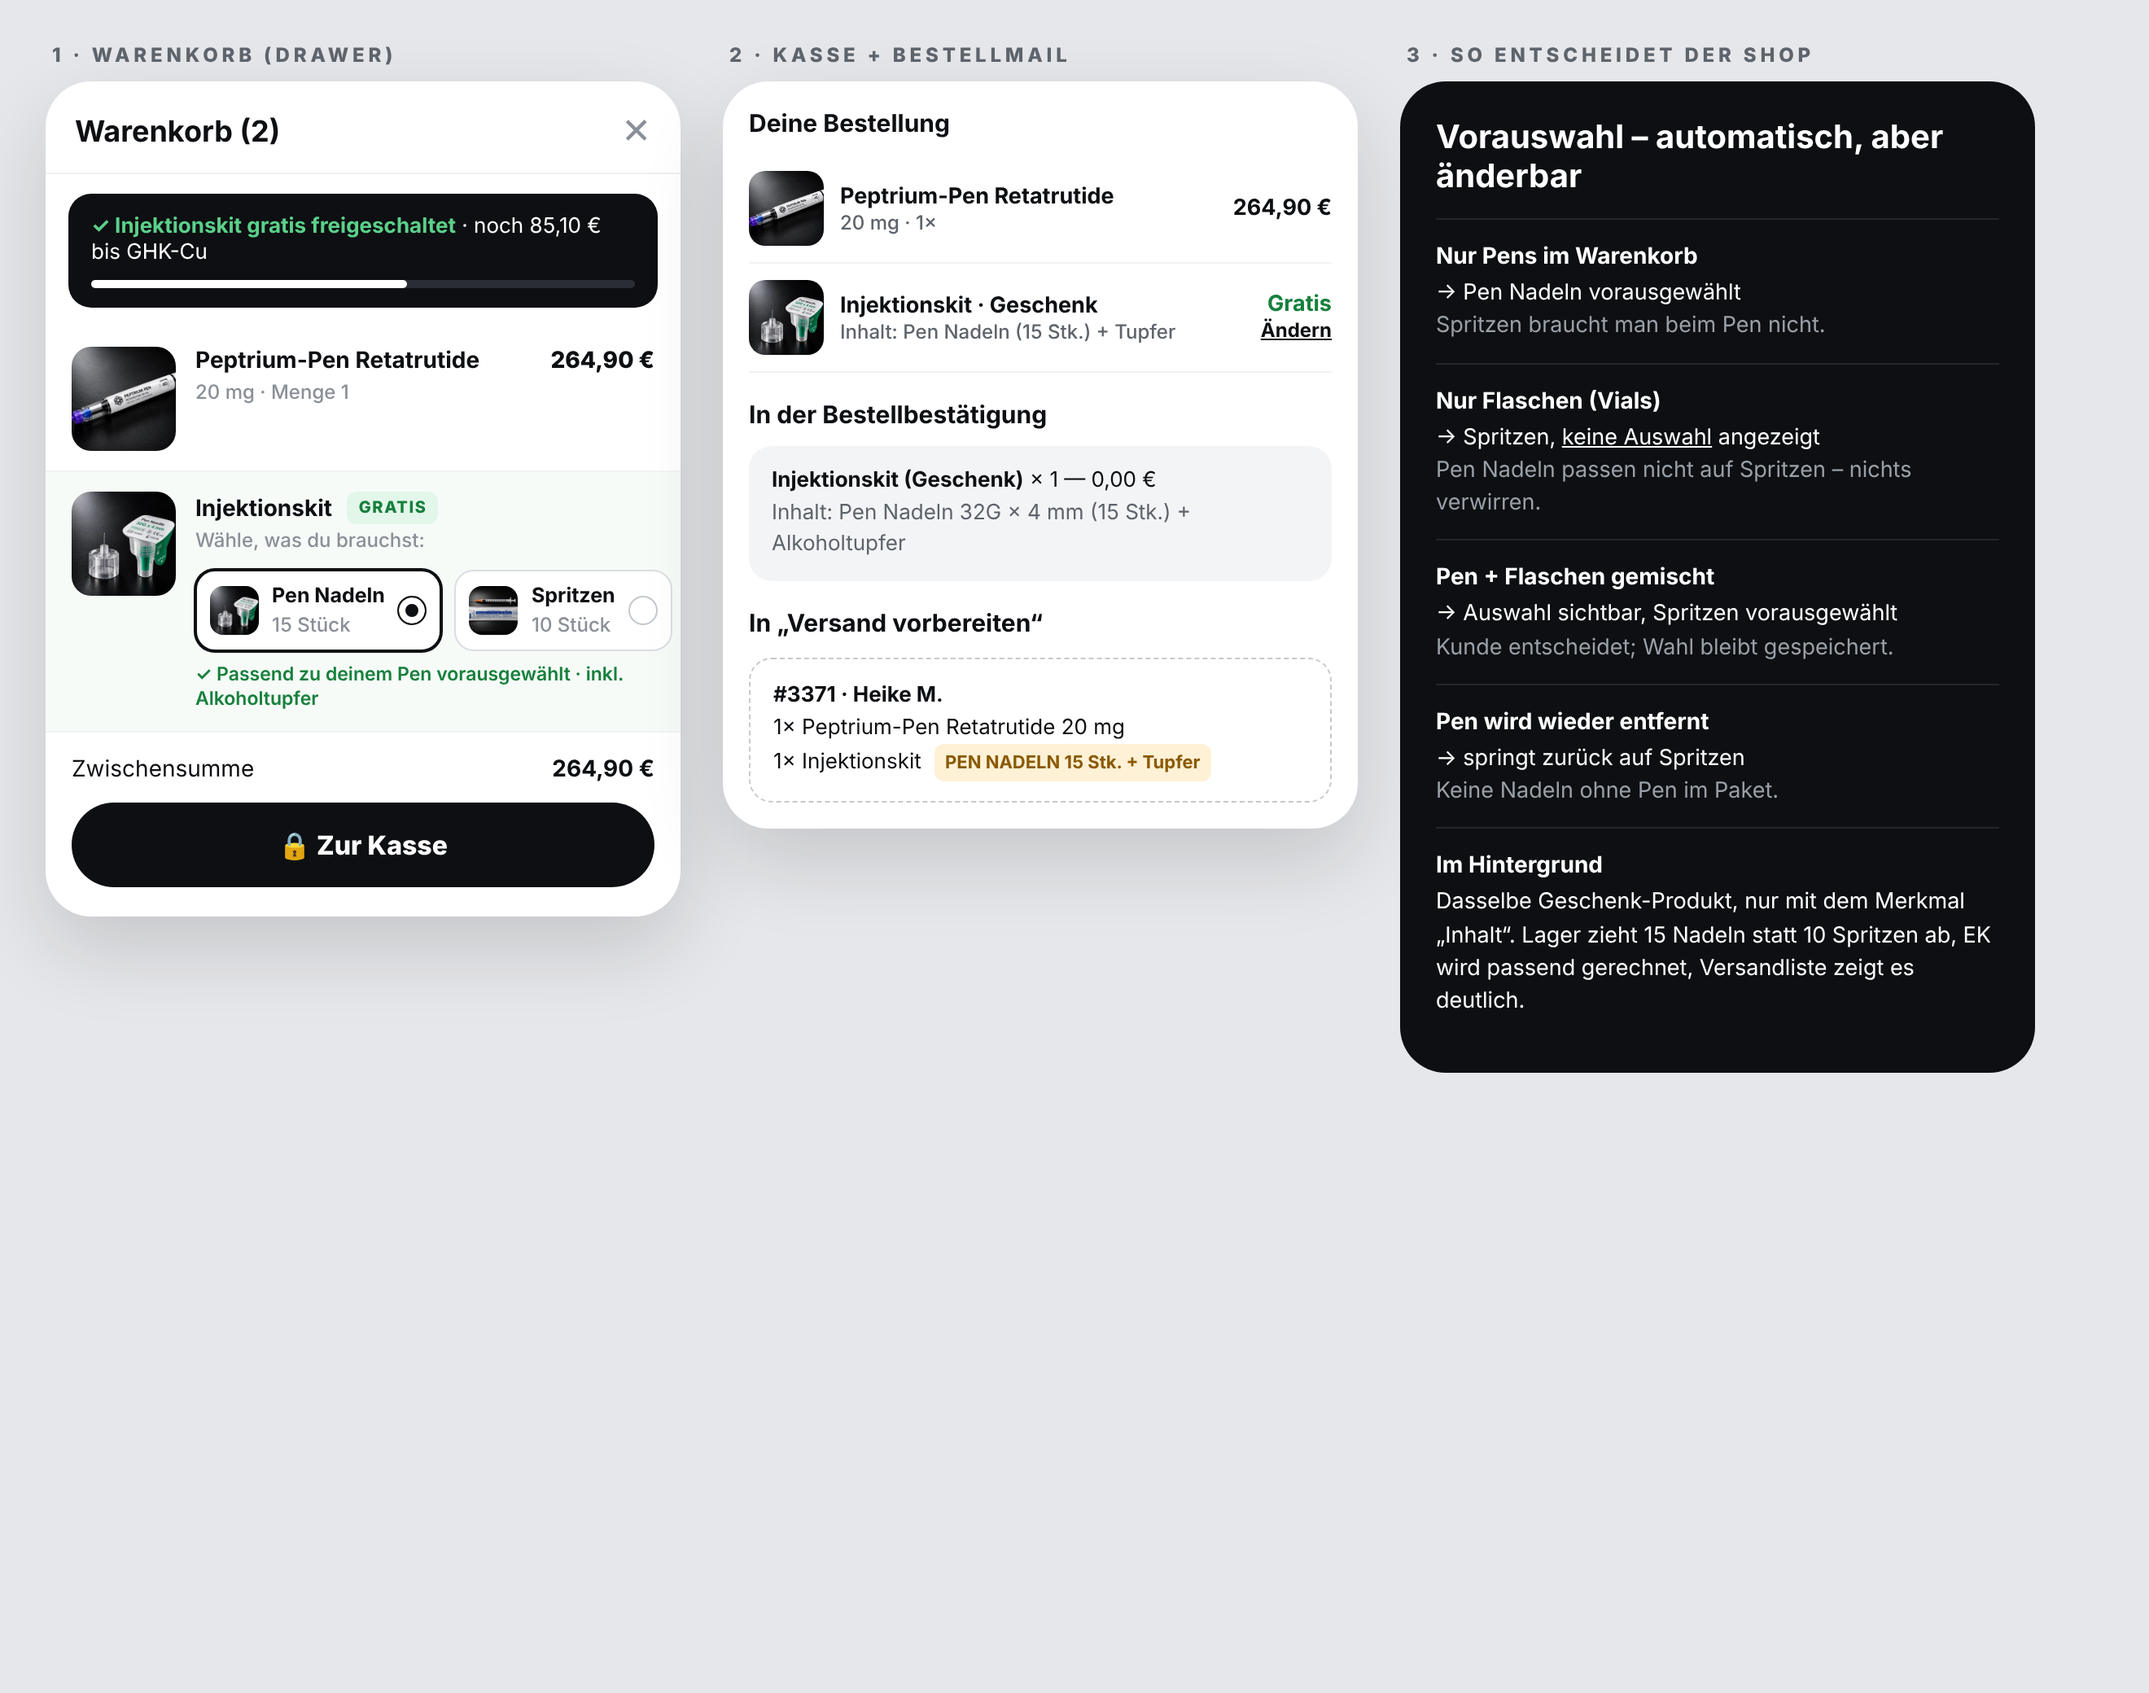
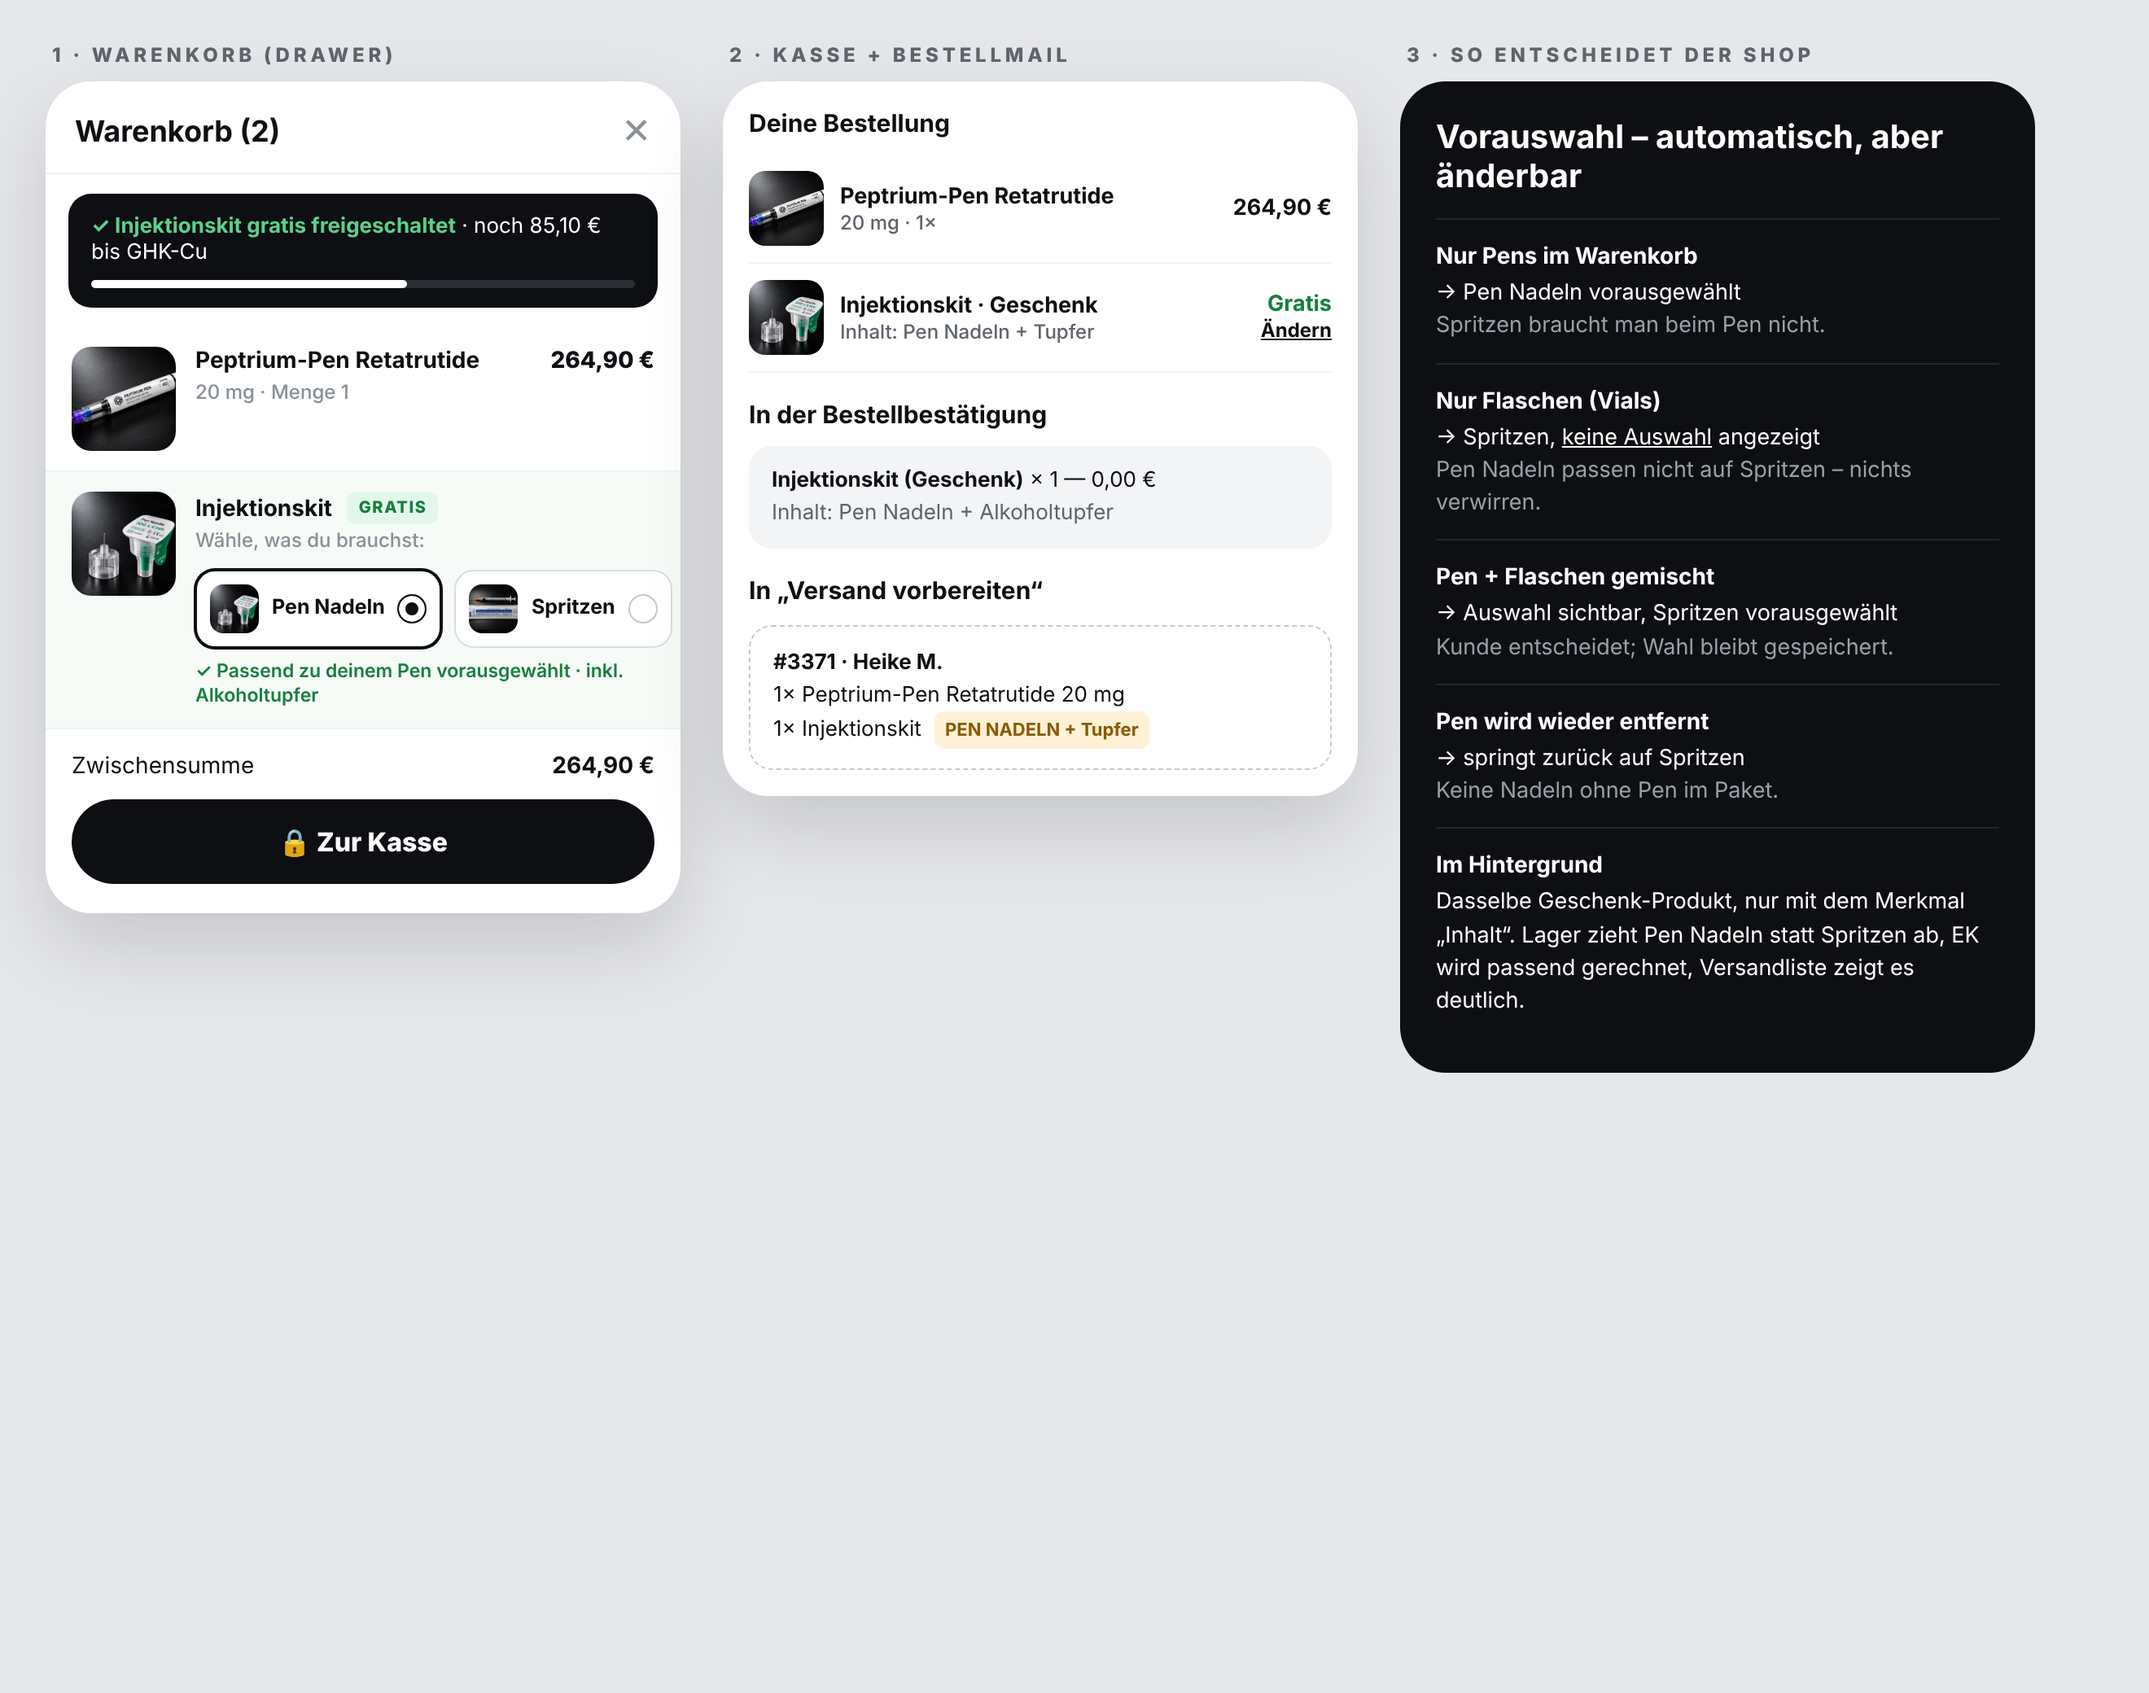
Entwurf Injektionskit v2: ohne Stückzahlen
Claude-Session: https://claude.ai/code/session_011YY7DBkbr5BcFGKyLoSbVN

diff --git a/drafts/injektionskit-wahl-2026-11-27/entwurf.html b/drafts/injektionskit-wahl-2026-11-27/entwurf.html
@@ -45,8 +45,8 @@
  <div class="it"><img src="img/pen.png"><div class="t">Peptrium-Pen Retatrutide<small>20 mg · Menge 1</small></div><div class="p">264,90 €</div></div>
  <div class="it gift"><img src="img/nad.webp"><div class="t">Injektionskit <span class="badge">GRATIS</span><small>Wähle, was du brauchst:</small>
    <div class="ch">
-    <div class="op on"><img src="img/nad.webp"><div>Pen Nadeln<small>15 Stück</small></div><span class="dot"></span></div>
-    <div class="op"><img src="img/spr.png"><div>Spritzen<small>10 Stück</small></div><span class="dot"></span></div>
+    <div class="op on"><img src="img/nad.webp"><div>Pen Nadeln</div><span class="dot"></span></div>
+    <div class="op"><img src="img/spr.png"><div>Spritzen</div><span class="dot"></span></div>
    </div>
    <div class="hint">✓ Passend zu deinem Pen vorausgewählt · inkl. Alkoholtupfer</div>
  </div></div>
@@ -56,13 +56,13 @@
 <div><div class="cap">2 · KASSE + BESTELLMAIL</div><div class="ph">
  <div class="sec"><h4>Deine Bestellung</h4>
   <div class="line"><img src="img/pen.png"><div class="t">Peptrium-Pen Retatrutide<small>20 mg · 1×</small></div><b>264,90 €</b></div>
-  <div class="line"><img src="img/nad.webp"><div class="t">Injektionskit · Geschenk<small>Inhalt: Pen Nadeln (15 Stk.) + Tupfer</small></div><div style="text-align:right"><b style="color:#17803D">Gratis</b><br><span class="chg">Ändern</span></div></div>
+  <div class="line"><img src="img/nad.webp"><div class="t">Injektionskit · Geschenk<small>Inhalt: Pen Nadeln + Tupfer</small></div><div style="text-align:right"><b style="color:#17803D">Gratis</b><br><span class="chg">Ändern</span></div></div>
  </div>
  <div class="sec" style="padding-top:0"><h4>In der Bestellbestätigung</h4>
-  <div class="mail"><b>Injektionskit (Geschenk)</b> × 1 — 0,00 €<br><span style="color:#5E646B">Inhalt: Pen Nadeln 32G × 4 mm (15 Stk.) + Alkoholtupfer</span></div>
+  <div class="mail"><b>Injektionskit (Geschenk)</b> × 1 — 0,00 €<br><span style="color:#5E646B">Inhalt: Pen Nadeln + Alkoholtupfer</span></div>
  </div>
  <div class="sec" style="padding-top:0"><h4>In „Versand vorbereiten“</h4>
-  <div class="pack"><b>#3371 · Heike M.</b><br>1× Peptrium-Pen Retatrutide 20 mg<br>1× Injektionskit <b class="k">PEN NADELN 15 Stk. + Tupfer</b></div>
+  <div class="pack"><b>#3371 · Heike M.</b><br>1× Peptrium-Pen Retatrutide 20 mg<br>1× Injektionskit <b class="k">PEN NADELN + Tupfer</b></div>
  </div>
 </div></div>
 
@@ -72,7 +72,7 @@
  <div class="lr"><b>Nur Flaschen (Vials)</b>→ Spritzen, <u>keine Auswahl</u> angezeigt<br><i>Pen Nadeln passen nicht auf Spritzen – nichts verwirren.</i></div>
  <div class="lr"><b>Pen + Flaschen gemischt</b>→ Auswahl sichtbar, Spritzen vorausgewählt<br><i>Kunde entscheidet; Wahl bleibt gespeichert.</i></div>
  <div class="lr"><b>Pen wird wieder entfernt</b>→ springt zurück auf Spritzen<br><i>Keine Nadeln ohne Pen im Paket.</i></div>
- <div class="lr"><b>Im Hintergrund</b>Dasselbe Geschenk-Produkt, nur mit dem Merkmal „Inhalt“. Lager zieht 15 Nadeln statt 10 Spritzen ab, EK wird passend gerechnet, Versandliste zeigt es deutlich.</div>
+ <div class="lr"><b>Im Hintergrund</b>Dasselbe Geschenk-Produkt, nur mit dem Merkmal „Inhalt“. Lager zieht Pen Nadeln statt Spritzen ab, EK wird passend gerechnet, Versandliste zeigt es deutlich.</div>
 </div></div>
 
 </div></body></html>
